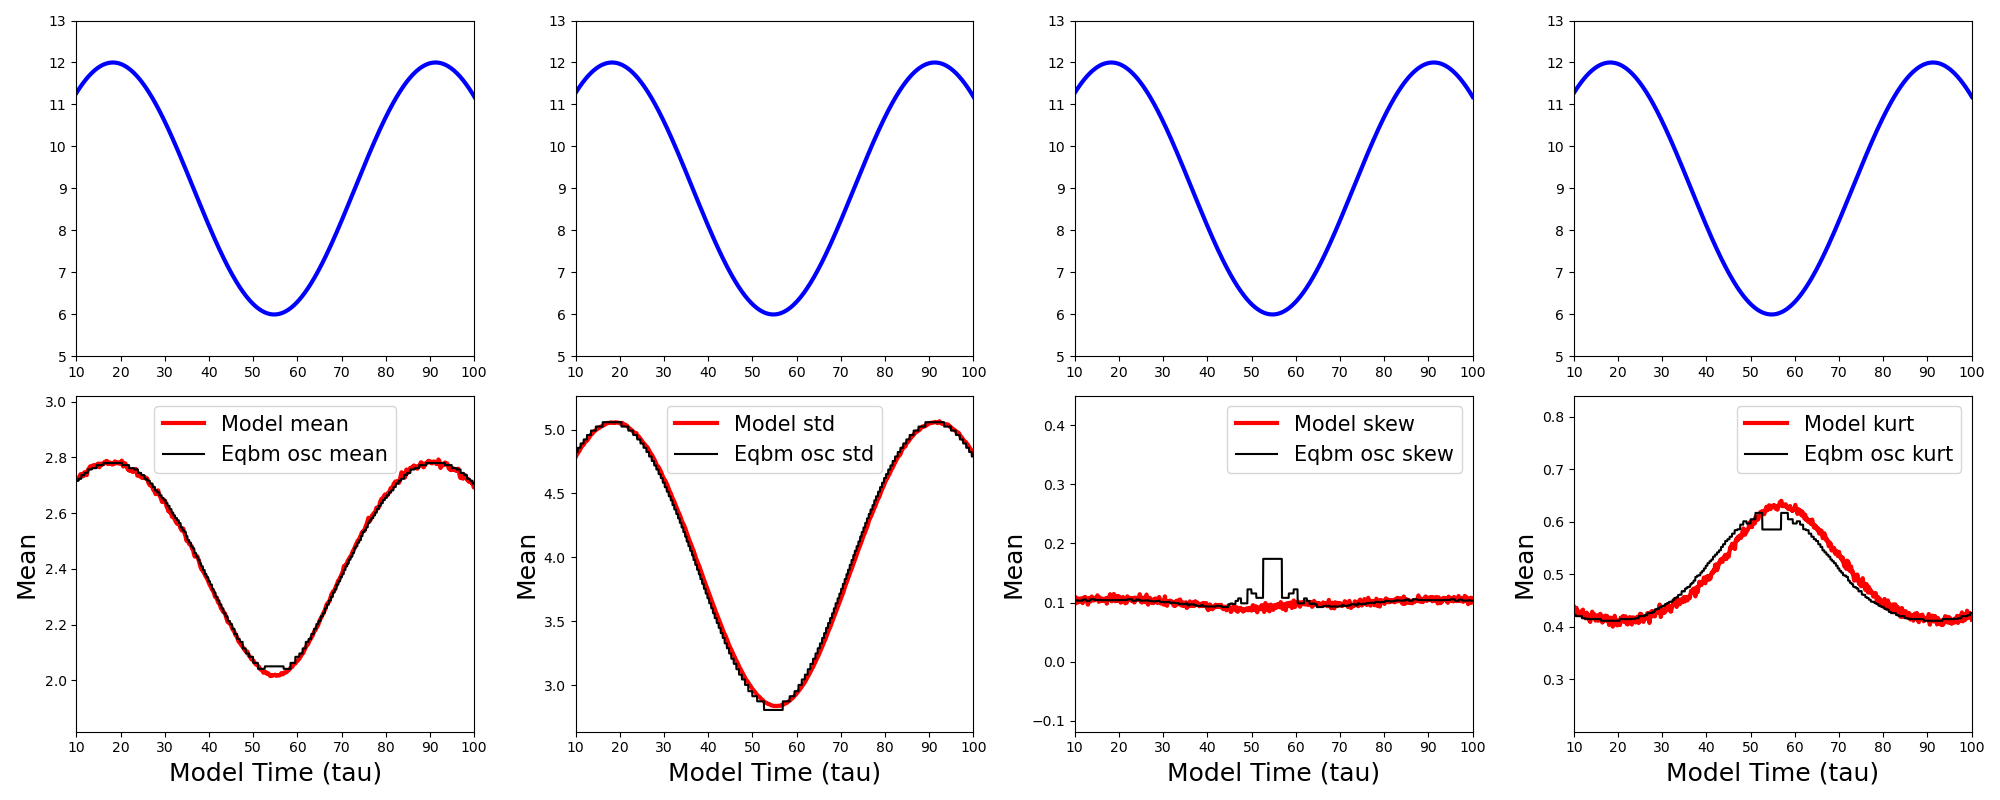
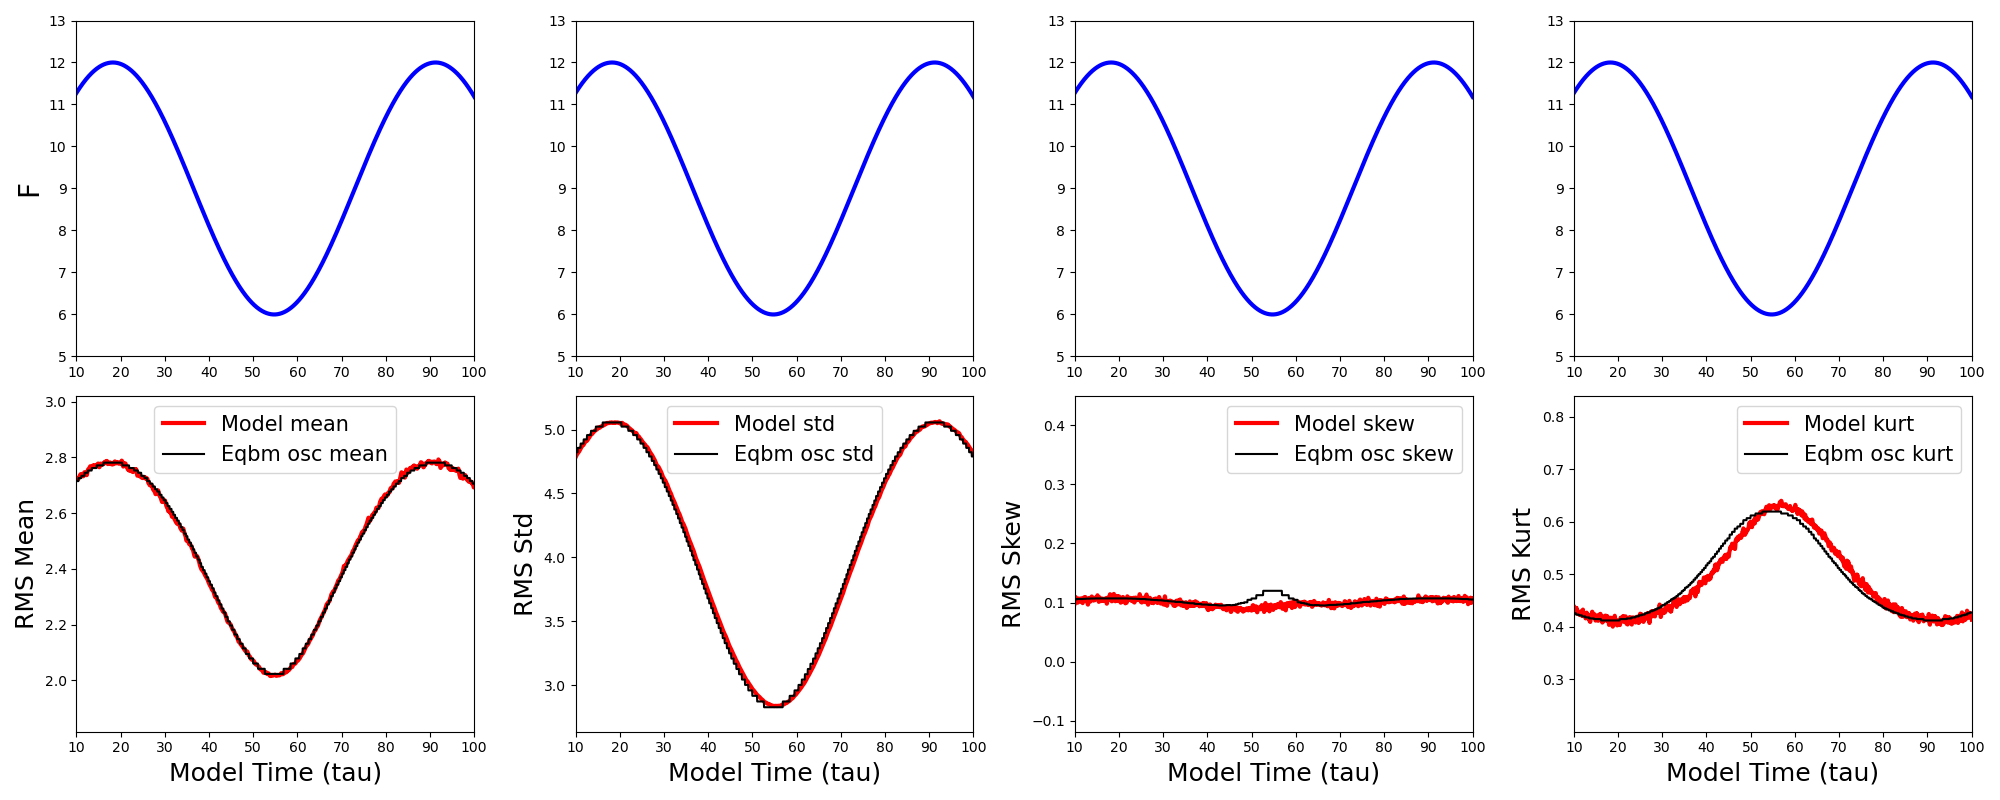
sleepy

diff --git a/diagnostic_scripts/compare_Fosc_w_eqbm_osc.py b/diagnostic_scripts/compare_Fosc_w_eqbm_osc.py
@@ -14,7 +14,7 @@ from pathlib import Path
 import matplotlib.pyplot as plt
 
 # user-settings
-savedir = '../plots/Fosc_vs_Feqbm/'
+savedir = 'plots/Fosc_vs_Feqbm/'
 
 # ============ LOADING DATA ================
 
@@ -34,7 +34,7 @@ F_vals = []
 
 # Looping over all pickle files and storing the 
 # the wanted data into eqbm_vals and F_vals
-fdir = '../analyzed_data/Fconst/single_ens/'
+fdir = 'analyzed_data/Fconst/super_ens/'
 path = Path(fdir)
 
 for file in path.glob('*.pkl'):
@@ -50,7 +50,7 @@ for file in path.glob('*.pkl'):
 # ------------- End Loop -------------- \
 
 # Loading Fosc metric data (hardcoded for now)
-fdir = '../analyzed_data/Fosc/' 
+fdir = 'analyzed_data/Fosc/' 
 fname = fdir + 'Fosc_1.0_year.pkl'
 Fosc = pickle.load( open(fname, 'rb') )
 
@@ -94,7 +94,7 @@ time_arr1d = np.arange(
 )
 
 # Setting up empty subplots
-fig, axs = plt.subplots(nrows=2, ncols=4, figsize=(20,8))
+fig, axs = plt.subplots(nrows=2, ncols=4, figsize=(21,8))
 
 # First plotting F timeseries
 for col in range(4):
@@ -123,7 +123,6 @@ for col, key in enumerate( eqbm_keys ):
     )
 
     # Customizing
-    axs[1,col].set_ylabel('Mean', fontsize = 18)
     axs[1,col].set_xlabel('Model Time (tau)', fontsize = 18)
     axs[1,col].legend(fontsize=15) 
 # --------------------------\
@@ -147,8 +146,13 @@ for row in range(2):
             axs[row,col].set_ylim(minlim,maxlim)
 # --------------------------\
 
+# Further customizing
+axs[0,0].set_ylabel('F', fontsize=22)
+axs[1,0].set_ylabel('RMS Mean', fontsize = 18)
+axs[1,1].set_ylabel('RMS Std', fontsize = 18)
+axs[1,2].set_ylabel('RMS Skew', fontsize = 18)
+axs[1,3].set_ylabel('RMS Kurt', fontsize = 18)
 
-# fig.suptitle('', fontsize=20)
 plt.tight_layout()
 
 # Saving plot

diff --git a/Fosc.py b/Fosc.py
@@ -25,7 +25,7 @@ Fosc_cfg = Config(
 
 # Parameter
 A = 3 # Amplitude
-wavelength = (73)  # How long one oscillation should take in model time tau
+wavelength = (73 / 4)  # How long one oscillation should take in model time tau
                    # For seasonal oscillation, let 1 tau = 5 days =>
                    #               dt = 0.05 = ~6 hours
 vshift = 9 # Mean forcing
@@ -52,4 +52,7 @@ Fosc_cfg.save_name = f'Fosc_{year_frac}_year'
 
 
 '''     RUNNING MODEL WITH GIVEN SETTINGS    '''
-Main( Fosc_cfg, osc_forcing )
+analyzed_data = Main( Fosc_cfg, osc_forcing )
+
+fname = Fconst_cfg.save_dir + Fconst_cfg.save_name + '.pkl'
+pickle.dump( analyzed_data, open( fname, 'wb' ) )

diff --git a/TODO.md b/TODO.md
@@ -1,8 +1,8 @@
 # TODO LIST
 
-# 1. Write plot scripts to cross check current progress w/
-# previous work
+# Run several higher frequency Fosc runs
+# and then plug into diagnostic script
 
-# 2. Write sinusoidal F script
+# ChatGPT deep research
 
-# 3. Begin work on Task 1
+# :0